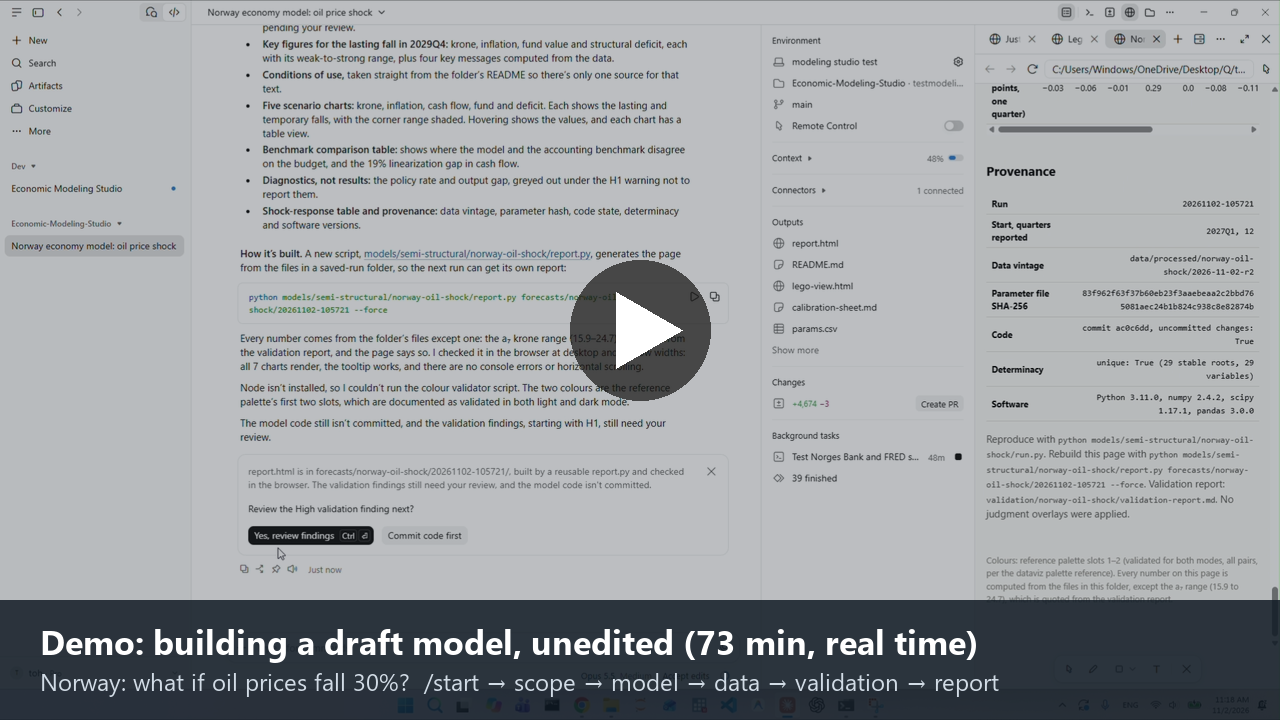
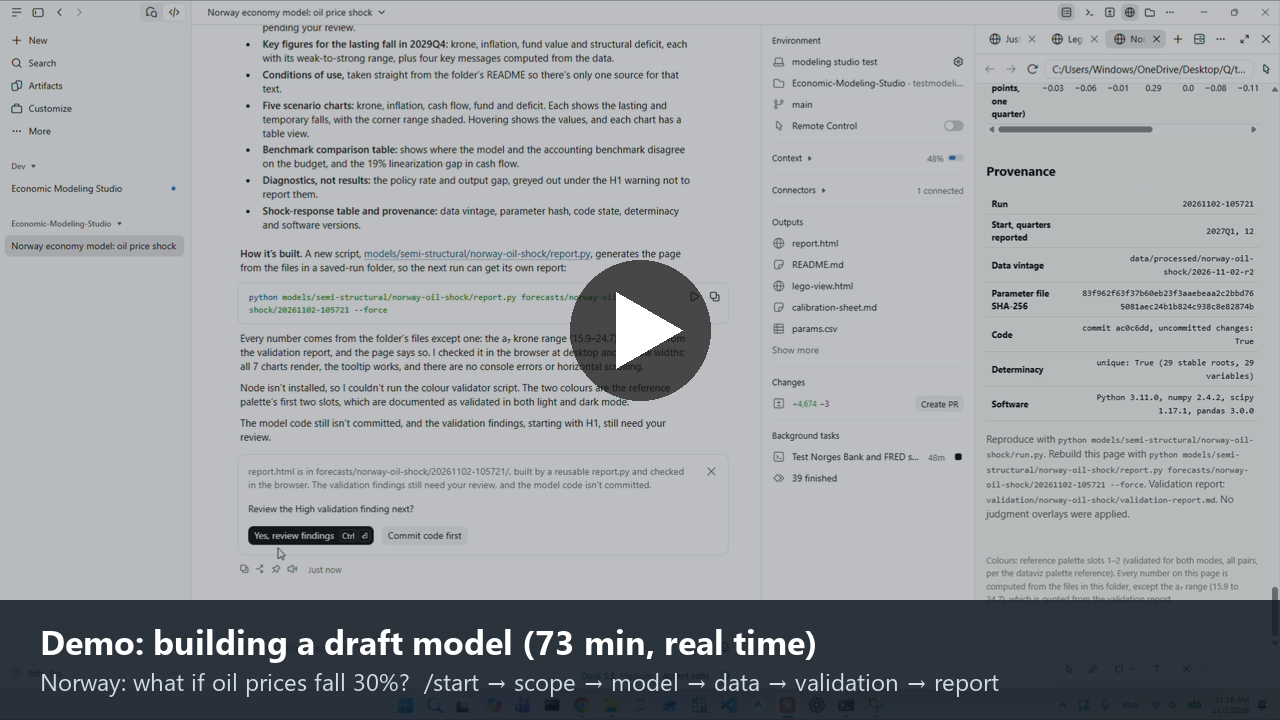
README demo: no download link, shorter title, placed before Typical uses

Changed region(s): [[0.4062, 0.8556, 0.7812, 0.9167]]

diff --git a/README.md b/README.md
@@ -34,13 +34,28 @@ Around this sits a governed workflow, scaled to the model's size and risk level:
 
 The lifecycle is **Concept → Design → Build → Estimate → Validate → Release / Operate**. Small models move through it quickly with light checks. Large ones add architecture decisions, staged integration and periodic revalidation.
 
-## Demo: building a draft model, unedited
+## Quick start
+1. Get your own copy with git, then move into the new folder (the git commands below only work inside it):
+   ```bash
+   git clone https://github.com/tatashbar/Economic-Modeling-Studio.git
+   cd Economic-Modeling-Studio
+   ```
+   If you downloaded the ZIP instead, `cd` into the unzipped folder and run `git init` there first, since the ZIP has no `.git` folder. A clone needs no `git init`.
+2. Start your coding agent **in** the studio folder, so that it is the session's working folder:
+   - The right folder directly contains `.claude`, `AGENTS.md` and `README.md`. If unzipping created a nested `Economic-Modeling-Studio-main` folder inside another one, use the inner one.
+   - **Claude desktop app:** start a new session and choose this folder in the folder picker next to the message box. Attaching the folder to a message is not enough, because commands load only from the working folder, when the session starts.
+   - **Terminal:** `cd` into the folder (or any subfolder) and start your agent there.
+3. In the studio folder, run `git config core.hooksPath .githooks` once to enable the commit guard, which blocks commits of restricted data, raw data and secrets.
+4. Type `/` and check that `start` appears in the list. If it does not, the session is in the wrong folder: go back to step 2. Then type `/start` (`$start` in Codex) and describe what you want to do, for example `/start build a simple small open economy model for Austria`. Alternatives: `/help` for what exists, `/project-stage-detect` to see where a project stands, `/adopt <path>` to bring in an existing model.
+5. Follow the suggested next command. A typical first step is `/scope-question`, then `/select-model-class`.
+
+## Demo: building a draft model
 
 *An actual test run of the studio, recorded in one take: no cuts, no editing, no speed-up. The clock in the corner of the screen shows real time, so all times are as shown: about 73 minutes from opening the repository to a saved, independently reviewed draft model and results report.*
 
-[![Demo video: building a draft oil-shock model for Norway, unedited, 73 minutes in real time](docs/images/demo-norway-oil.png)](https://youtu.be/gminFSzWHCo)
+[![Demo video: building a draft oil-shock model for Norway, 73 minutes in real time](docs/images/demo-norway-oil.png)](https://youtu.be/gminFSzWHCo)
 
-[Watch on YouTube](https://youtu.be/gminFSzWHCo) · [Download the original recording (MP4, 930 MB)](https://github.com/tatashbar/Economic-Modeling-Studio/releases/download/v1.7.1/codingstudio_test_recording.mp4)
+[Watch on YouTube](https://youtu.be/gminFSzWHCo)
 
 **The question:** what happens to Norway's budget, inflation and krone if oil prices fall 30%?
 
@@ -62,21 +77,6 @@ The lifecycle is **Concept → Design → Build → Estimate → Validate → Re
 10. **Saves the run to `forecasts/`** with full provenance (data vintage, parameter hash, code state, software versions), and combines the results into one HTML report with charts.
 
 The result is a **draft**: a working, documented starting point, not a finished or validated model. Taking it further means reviewing the validation findings, filling the missing data, and committing the code.
-
-## Quick start
-1. Get your own copy with git, then move into the new folder (the git commands below only work inside it):
-   ```bash
-   git clone https://github.com/tatashbar/Economic-Modeling-Studio.git
-   cd Economic-Modeling-Studio
-   ```
-   If you downloaded the ZIP instead, `cd` into the unzipped folder and run `git init` there first, since the ZIP has no `.git` folder. A clone needs no `git init`.
-2. Start your coding agent **in** the studio folder, so that it is the session's working folder:
-   - The right folder directly contains `.claude`, `AGENTS.md` and `README.md`. If unzipping created a nested `Economic-Modeling-Studio-main` folder inside another one, use the inner one.
-   - **Claude desktop app:** start a new session and choose this folder in the folder picker next to the message box. Attaching the folder to a message is not enough, because commands load only from the working folder, when the session starts.
-   - **Terminal:** `cd` into the folder (or any subfolder) and start your agent there.
-3. In the studio folder, run `git config core.hooksPath .githooks` once to enable the commit guard, which blocks commits of restricted data, raw data and secrets.
-4. Type `/` and check that `start` appears in the list. If it does not, the session is in the wrong folder: go back to step 2. Then type `/start` (`$start` in Codex) and describe what you want to do, for example `/start build a simple small open economy model for Austria`. Alternatives: `/help` for what exists, `/project-stage-detect` to see where a project stands, `/adopt <path>` to bring in an existing model.
-5. Follow the suggested next command. A typical first step is `/scope-question`, then `/select-model-class`.
 
 ## Typical uses
 
@@ -130,7 +130,7 @@ The studio is not tied to one assistant. Instructions, commands and rules are pl
 Tool conventions change quickly. If a tool moves its folders, update `tools/sync_agents.py` and regenerate.
 
 ## Contents
-- [How it works](#how-it-works) · [Demo](#demo-building-a-draft-model-unedited) · [Quick start](#quick-start) · [Typical uses](#typical-uses) · [Works with your coding agent](#works-with-your-coding-agent) · [What it covers](#what-it-covers) · [Models as lego sets](#models-as-lego-sets) · [Commands](#commands) · [Typical workflows](#typical-workflows)
+- [How it works](#how-it-works) · [Quick start](#quick-start) · [Demo](#demo-building-a-draft-model) · [Typical uses](#typical-uses) · [Works with your coding agent](#works-with-your-coding-agent) · [What it covers](#what-it-covers) · [Models as lego sets](#models-as-lego-sets) · [Commands](#commands) · [Typical workflows](#typical-workflows)
 - [Quality controls](#quality-controls) · [The agents](#the-agents) · [Repository layout](#repository-layout) · [Setup](#setup)
 - [Intended use: public data only](#intended-use-public-data-only) · [Limitations](#limitations) · [Customizing](#customizing) · [Version history](#version-history)
 
